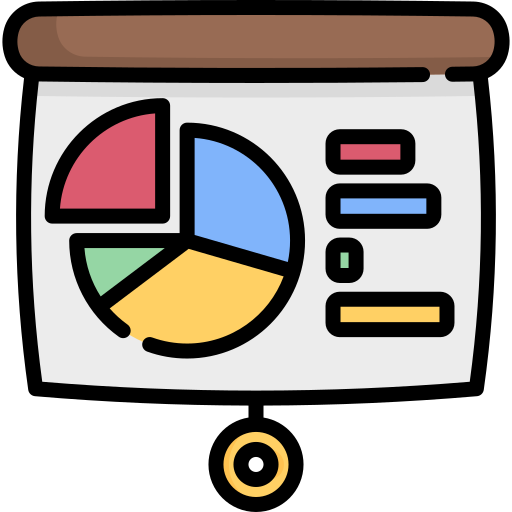
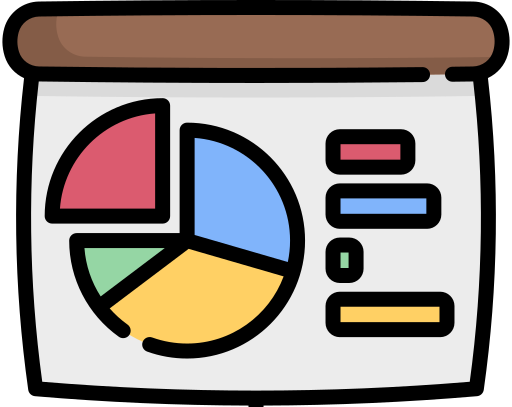
Minor

diff --git a/_sass/labels.scss b/_sass/labels.scss
@@ -49,7 +49,14 @@
   color: $green-200;
   padding: 0%;
   background-color: white;
-  font-size: 14px !important;
+  font-size: 16px !important;
+}
+
+.label-student-presentation:not(g) {
+  color: $red-200;
+  padding: 0%;
+  background-color: white;
+  font-size: 16px !important;
 }
 
 .label-guest-name:not(g) {

diff --git a/_sass/content.scss b/_sass/content.scss
@@ -258,7 +258,7 @@
 
 .slides-icon {
   width: 35px;
-  height: 35px;
+  height: 30px;
   margin-top: 6px;
   background-image: url('/COSI-167A/assets/images/teaching.png');
   background-size: cover;

diff --git a/_modules/modules.md b/_modules/modules.md
@@ -7,14 +7,13 @@ title: ""
     : **Readings**
 
 Fri, Aug 30
-: **Class 1:** Introduction to Data Systems and COSI 127A
+: **Class 1:** Introduction to Data Systems and COSI 127A <br><a href="/COSI-167A/assets/slides/COSI167A-Class1.pdf" target="_blank"><span class="slides-icon"></span></a>
     : 
 
 Tue, Sep 3
-: **Class 2:** Data Systems Architectures Essentials - Part 1 
+: **Class 2:** Data Systems Architectures Essentials - Part 1
     : __[P]__ ["Architecture of a Database System"](https://dsf.berkeley.edu/papers/fntdb07-architecture.pdf){:target="_blank"}, *Foundations and Trends in Databases*, 2007 <br>
-[B] ["The Design and Implementation of Modern Column-Oriented Database Systems"](https://stratos.seas.harvard.edu/files/stratos/files/columnstoresfntdbs.pdf){:target="_blank"}, *Foundations and Trends in Databases*, 2012 <br>
-<a href="/COSI-167A/assets/slides/COSI167A-Class1.pdf" target="_blank"><span class="slides-icon"></span></a> <!--<a href="#"><span class="talk-icon"></span></a> <a href="#"><span class="video-icon"></span></a> -->
+[B] ["The Design and Implementation of Modern Column-Oriented Database Systems"](https://stratos.seas.harvard.edu/files/stratos/files/columnstoresfntdbs.pdf){:target="_blank"}, *Foundations and Trends in Databases*, 2012  <!--<a href="#"><span class="talk-icon"></span></a> <a href="#"><span class="video-icon"></span></a> -->
 
 Fri, Sep 6
 : **Class 3:** Data Systems Architectures Essentials - Part 2
@@ -22,8 +21,8 @@ Fri, Sep 6
 [B] ["Massively Parallel Databases and MapReduce Systems"](https://www.cut.ac.cy/digitalAssets/122/122275_1002013-FnTDB-Survey.pdf){:target="_blank"}, *Foundations and Trends in Databases*, 2013
 
 Tue, Sep 10
-: **Class 4:** Row-Stores vs. Column-Stores
-    : __[P]__ ["Column-Stores vs. Row-Stores: How Different Are They Really?"](https://www.cs.umd.edu/~abadi/papers/abadi-sigmod08.pdf){:target="_blank"}, *SIGMOD*, 2008 <br>
+: **Class 4:** Row-Stores vs. Column-Stores 
+    : __[P]__ ["Column-Stores vs. Row-Stores: How Different Are They Really?"](https://www.cs.umd.edu/~abadi/papers/abadi-sigmod08.pdf){:target="_blank"}, *SIGMOD*, 2008 <br> [__Technical Question 1__{: .label .label-blue}](#){:target="_blank"} <br>
 [B] ["C-Store: A Column-oriented DBMS"](https://web.stanford.edu/class/cs345d-01/rl/cstore.pdf){:target="_blank"}, *VLDB*, 2005
 
 Fri, Sep 13
@@ -73,7 +72,7 @@ Fri, Oct 18
     : 
 
 Tue, Oct 22
-: **Class 14:** Self-Designing LSM Engines __Student Presentation 1__{: .label .label-student}
+: **Class 14:** Optimizing LSM Engines <br> __Student Presentation - 1__{: .label .label-student-presentation} 
     : 
 
 Fri, Oct 25
@@ -81,11 +80,11 @@ Fri, Oct 25
     : 
 
 Tue, Oct 29
-: **Class 16:** Adaptive Radix Trees __Student Presentation 2__{: .label .label-student}
+: **Class 16:** Adaptive Radix Trees <br> __Student Presentation - 2__{: .label .label-student-presentation} 
     : 
 
 Fri, Nov 1
-: **Class 17:** Adaptive Indexing & Cracking __Student Presentation 3__{: .label .label-student}
+: **Class 17:** Adaptive Indexing & Cracking <br> __Student Presentation - 3__{: .label .label-student-presentation} 
     : 
 
 Tue, Nov 5
@@ -105,7 +104,7 @@ Fri, Nov 15
     : 
 
 Tue, Nov 19
-: **Class 22:** : HTAP Systems __Student Presentation 4__{: .label .label-student}
+: **Class 22:** : HTAP Systems <br> __Student Presentation - 4__{: .label .label-student-presentation} 
     : 
 
 Fri, Nov 22
@@ -113,7 +112,7 @@ Fri, Nov 22
     : 
 
 Tue, Nov 26
-: **Class 24:** TBD __Student Presentation 5__{: .label .label-student}
+: **Class 24:** TBD <br> __Student Presentation - 5__{: .label .label-student-presentation} 
 
 Fri, Nov 29
 : **Thanksgiving Holiday -- No Class**{: .label .label-yellow}
